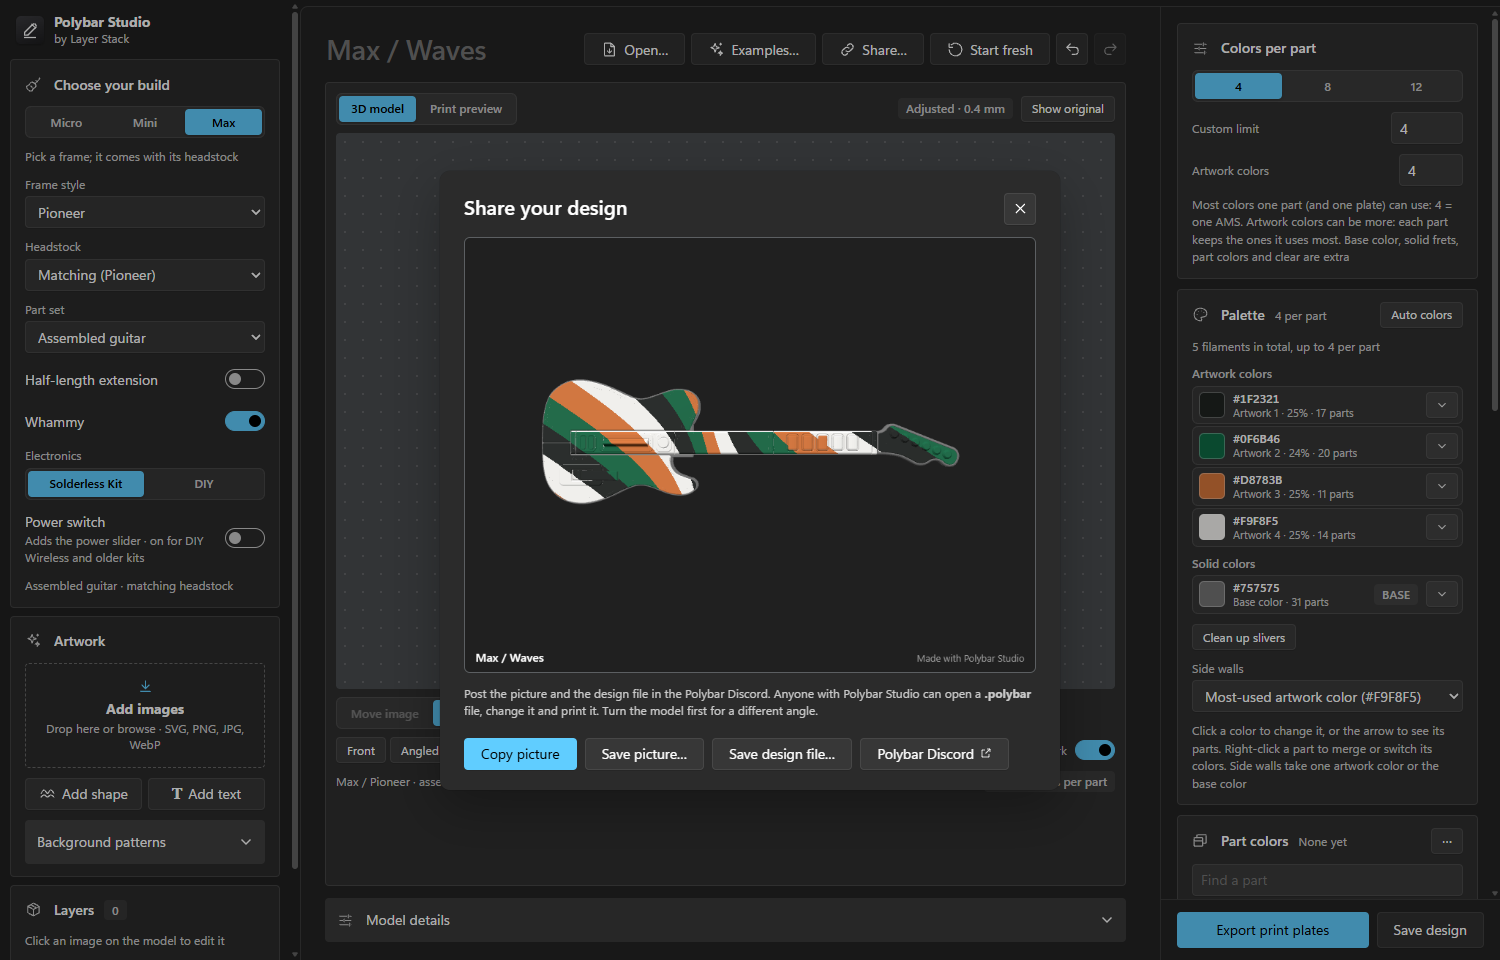
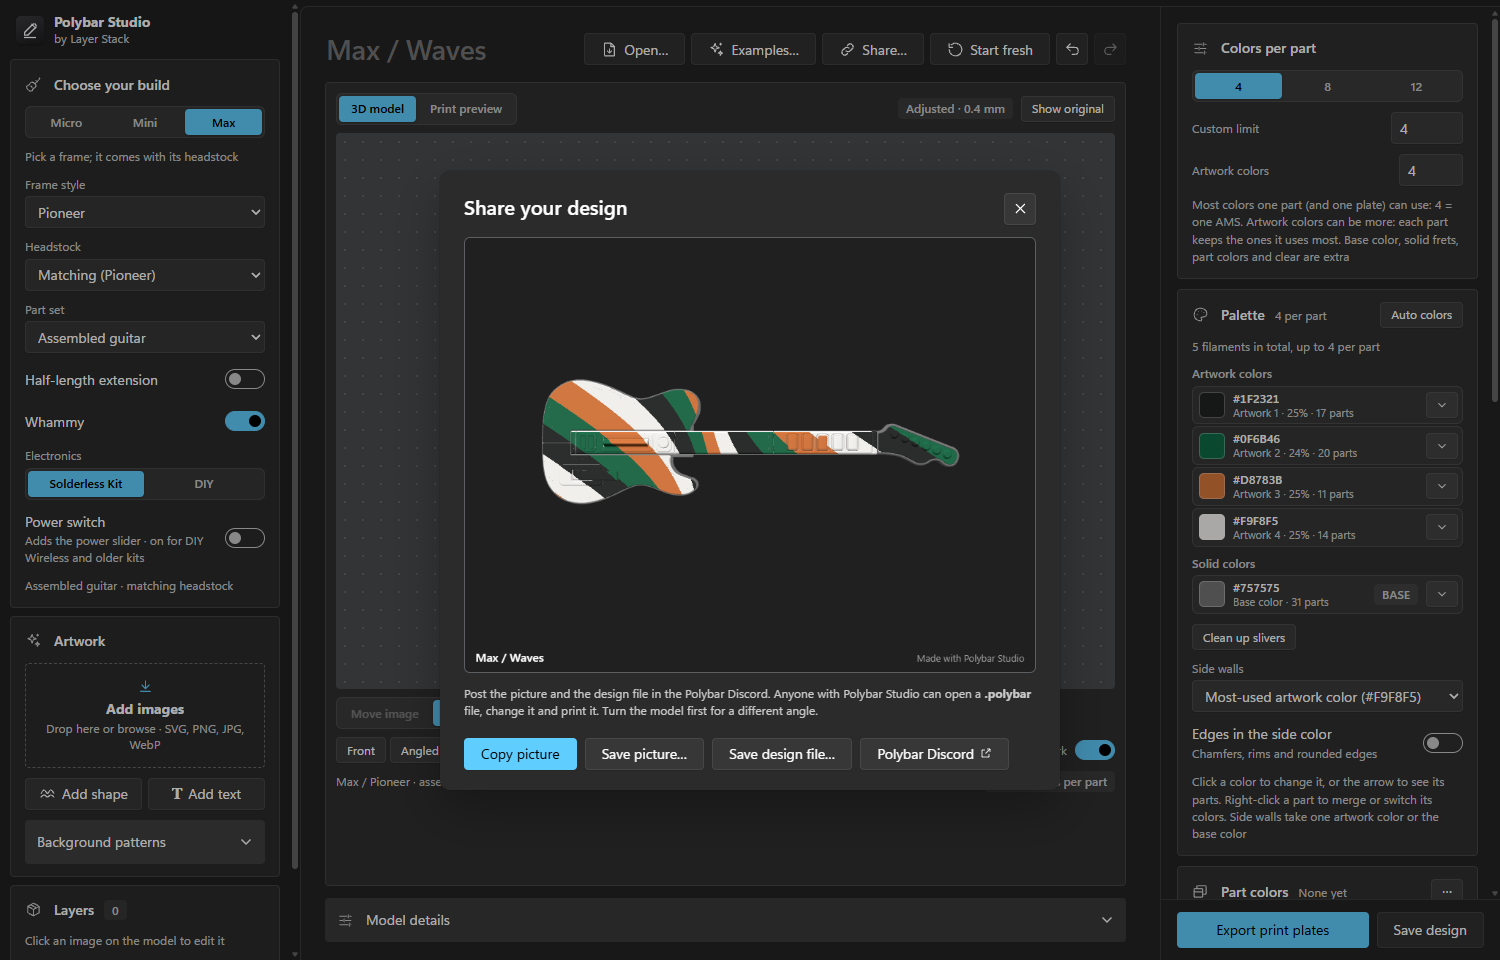
0.14.0: README, screenshots

Changed region(s): [[0.7973, 0.75, 0.9813, 0.9375]]

diff --git a/README.md b/README.md
@@ -2,7 +2,7 @@
 
 Paint your Polybar Micro, Mini or Max, then get a print-ready Bambu Studio project for your Bambu Lab printer.
 
-[![Download for Windows](https://img.shields.io/badge/Download_for_Windows-Polybar_Studio_0.13.1-0078D4?style=for-the-badge&logo=windows)](https://github.com/3D-Printed-Controller-Systems/Polybar-Studio-Release/releases/latest/download/Polybar-Studio-Windows.exe)
+[![Download for Windows](https://img.shields.io/badge/Download_for_Windows-Polybar_Studio_0.14.0-0078D4?style=for-the-badge&logo=windows)](https://github.com/3D-Printed-Controller-Systems/Polybar-Studio-Release/releases/latest/download/Polybar-Studio-Windows.exe)
 
 Windows 10 or 11, 64-bit · about 50 MB · works offline · [all releases](https://github.com/3D-Printed-Controller-Systems/Polybar-Studio-Release/releases) · share your designs in the [Polybar Discord](https://discord.gg/wBRdgxEGhe)
 
@@ -73,6 +73,7 @@ Drag in the preview to rotate, scroll to zoom (it zooms toward the mouse pointer
 - Click the color square to pick from Bambu Lab's own **PLA Basic** and **PLA Matte** spool colors, or choose **Custom color…**.
 - **Auto colors** rebuilds the palette from the artwork. It only uses real colors from your artwork, not the blended shades along soft edges.
 - **BASE** (the base color) is the housing's bottom and lower surfaces (gray by default). **Side walls** picks the color of the painted pieces' sides: one artwork color or the base color. A part always keeps its side color.
+- **Edges in the side color** (a switch under Side walls): every chamfer, rim, rounded edge and wall of the painted pieces prints in the side-wall color, straight from the controller's shape. **Steeper than** sets how steep a face must be (30° by default; lower takes in gentler slopes). With white side walls and dark artwork, every edge gets a crisp white accent (the fret windows, tuners, housing joints and body outline), with nothing to draw. Textured surfaces like the whammy grip keep the artwork color.
 
 **Which parts print a color.** Click the **arrow** at the end of a row to open the parts that print that color, largest share first.
 
@@ -212,6 +213,8 @@ In the slicer, pick your actual filament profiles, check that each color goes to
 ## Releases
 
 Each release lists the installer's SHA-256 and the [Development](https://github.com/3D-Printed-Controller-Systems/Polybar-Studio-Development) commit it was built from.
+
+**0.14.0**: **Edges in the side color**: every chamfer, rim and rounded edge can print in the side-wall color, straight from the controller's shape (a switch and an angle under Side walls), for clean edge accents everywhere.
 
 **0.13.1**: **Electronics** choice, **Solderless Kit** or **DIY**: DIY prints the DIY strum end cap and turns the Power switch on; the Power switch stays changeable for older Solderless Kits and wired DIY builds.
 
